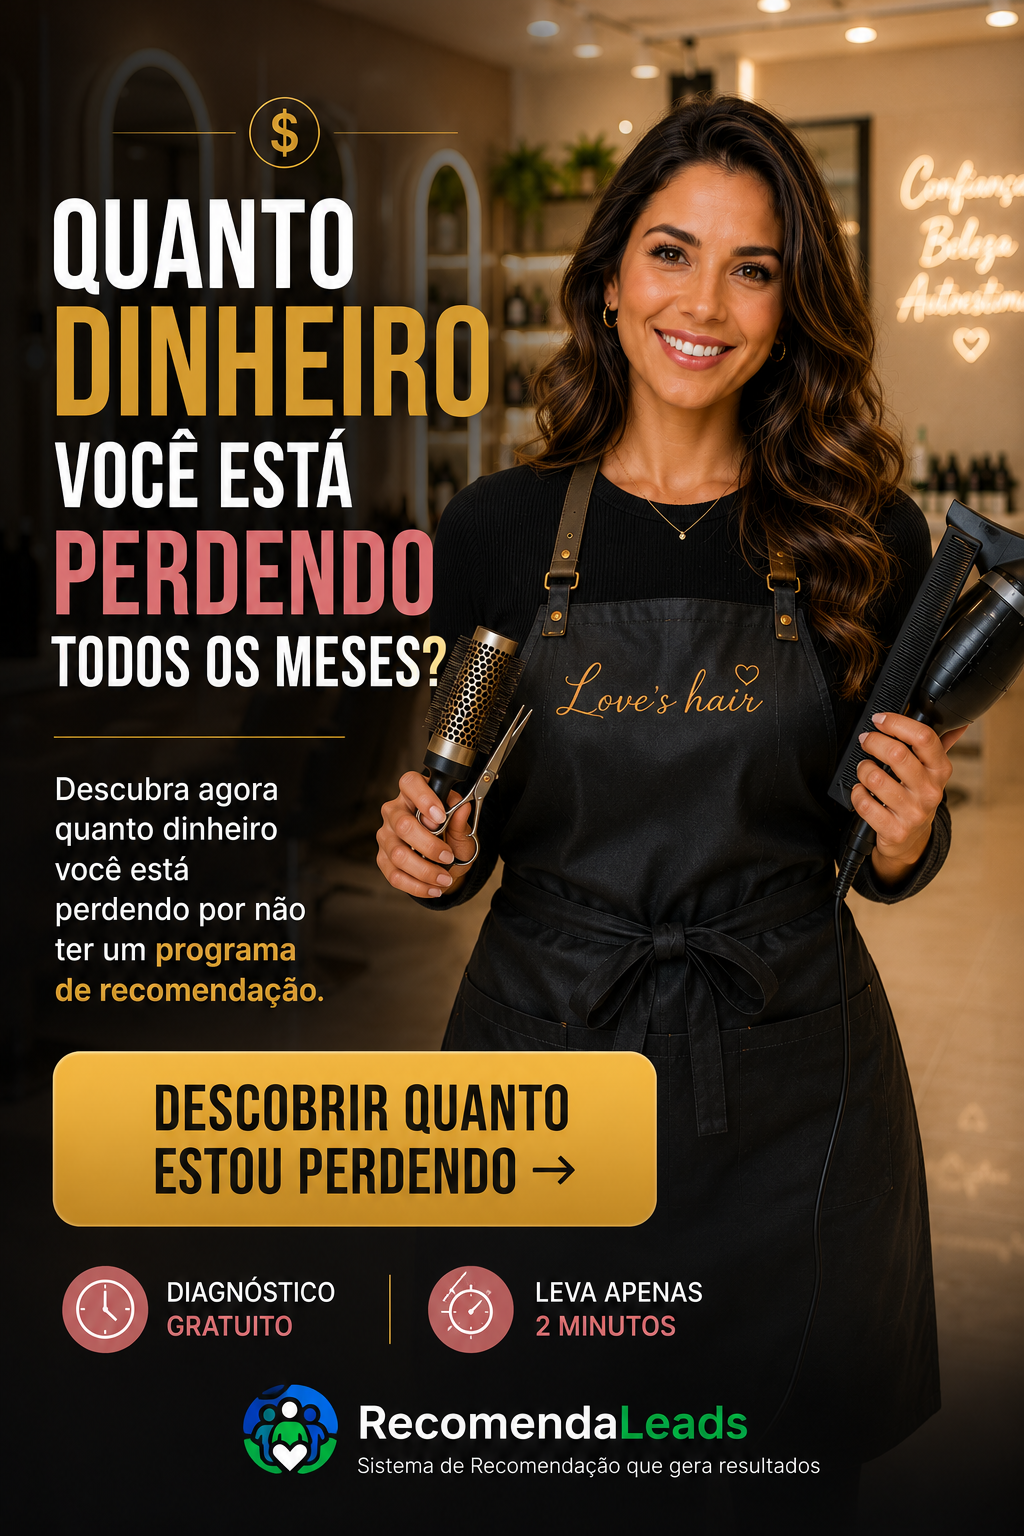
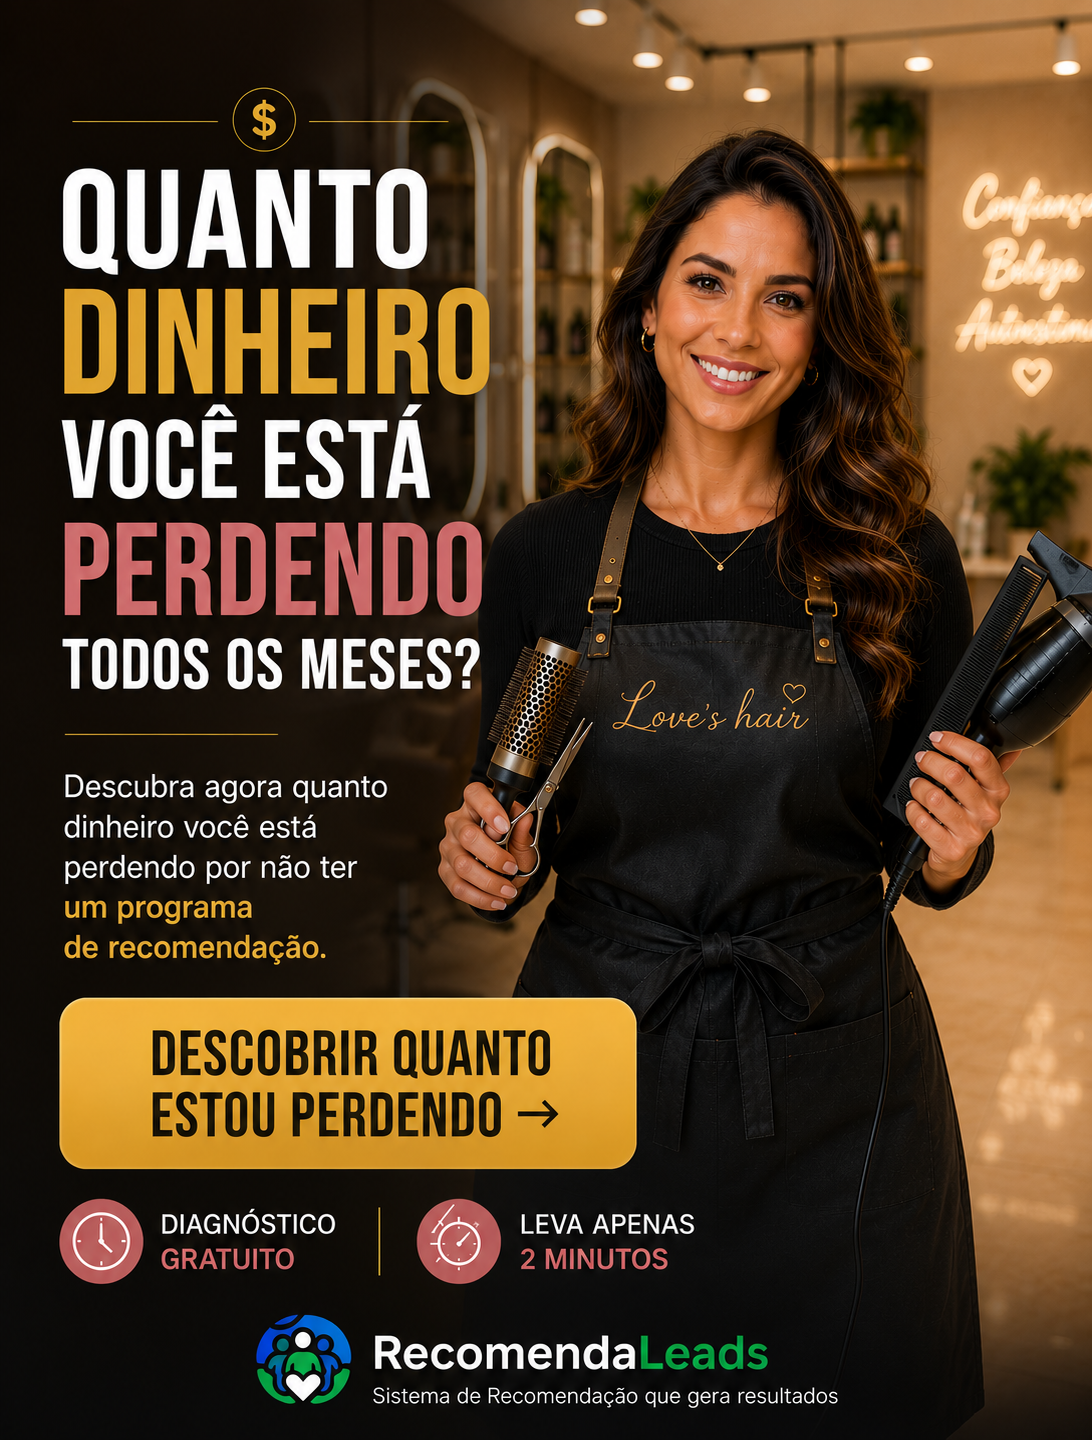
Importar CSV: sobe leads em massa (Google Maps/Apify/planilha), mapeia colunas automaticamente, cai na base do closer (source=importado)

diff --git a/index.html b/index.html
@@ -380,8 +380,23 @@ th:nth-child(1),td:nth-child(1){width:22%}th:nth-child(2),td:nth-child(2){width:
         <div class="sc"><div class="slabel">Prontos</div><div class="sval p" id="sr">0</div></div>
       </div>
       <div style="display:flex;justify-content:space-between;align-items:center;flex-wrap:wrap;gap:8px;margin-bottom:12px">
-        <div class="sub" style="margin:0">Sua base ativa — leads que você prospectou ou cadastrou.</div>
-        <button class="btn btn-primary" onclick="toggleNewLead()"><i class="ti ti-plus"></i> Novo lead</button>
+        <div class="sub" style="margin:0">Sua base ativa — leads que você prospectou, cadastrou ou importou.</div>
+        <div style="display:flex;gap:8px;flex-wrap:wrap">
+          <button class="btn" onclick="toggleImport()"><i class="ti ti-file-upload"></i> Importar CSV</button>
+          <button class="btn btn-primary" onclick="toggleNewLead()"><i class="ti ti-plus"></i> Novo lead</button>
+        </div>
+      </div>
+      <div class="cfgcard" id="import-form" style="display:none;margin-bottom:14px">
+        <strong style="display:block;margin-bottom:6px">Importar leads de um CSV</strong>
+        <div class="sub" style="margin-bottom:10px">Exporte do Google Maps / Apify / planilha e suba aqui. Eu identifico as colunas (nome, telefone, e-mail, site...) automaticamente.</div>
+        <input type="file" id="csv-file" accept=".csv,text/csv" onchange="analyzeCsvFile(this)" style="margin-bottom:8px"/>
+        <div class="sub" style="margin:6px 0">ou cole o conteúdo do CSV:</div>
+        <textarea id="csv-paste" rows="3" placeholder="nome,telefone,email,site&#10;Barbearia X,11999...,[email redacted],site.com" style="width:100%;padding:9px 11px;border-radius:8px;border:1px solid var(--border);background:var(--bg);color:var(--text);font-size:12px;font-family:monospace;resize:vertical"></textarea>
+        <div style="display:flex;gap:8px;margin-top:10px">
+          <button class="btn" onclick="analyzeCsvPaste()"><i class="ti ti-eye"></i> Analisar</button>
+          <button class="btn" onclick="toggleImport()">Cancelar</button>
+        </div>
+        <div id="import-preview" style="margin-top:12px"></div>
       </div>
       <div class="cfgcard" id="newlead-form" style="display:none;margin-bottom:14px">
         <strong style="display:block;margin-bottom:10px">Cadastrar lead ativo</strong>
@@ -954,6 +969,81 @@ async function saveNewLead(){
   if(error){ m.className='cfgmsg err'; m.textContent='Erro: '+error.message; m.style.display='block'; return; }
   toggleNewLead();
   await loadLeads(); nav('leads');
+}
+
+// ─── Importar leads de CSV ─────────────────────────────────────────────────────
+let importRows=[]; // leads prontos pra inserir
+function toggleImport(){
+  const f=document.getElementById('import-form');
+  const show=f.style.display==='none';
+  f.style.display=show?'block':'none';
+  if(show){ document.getElementById('csv-paste').value=''; document.getElementById('import-preview').innerHTML=''; const fi=document.getElementById('csv-file'); if(fi)fi.value=''; importRows=[]; }
+}
+function parseCSV(text){
+  text=text.replace(/^/,'');
+  // detecta separador pela 1ª linha
+  const firstLine=text.slice(0, text.indexOf('\n')>0?text.indexOf('\n'):text.length);
+  const delim = (firstLine.split(';').length > firstLine.split(',').length) ? ';' : ',';
+  const rows=[]; let row=[], field='', q=false;
+  for(let i=0;i<text.length;i++){ const ch=text[i];
+    if(q){ if(ch==='"'){ if(text[i+1]==='"'){field+='"';i++;} else q=false; } else field+=ch; }
+    else { if(ch==='"') q=true; else if(ch===delim){ row.push(field); field=''; } else if(ch==='\n'){ row.push(field); rows.push(row); row=[]; field=''; } else if(ch!=='\r') field+=ch; }
+  }
+  if(field.length||row.length){ row.push(field); rows.push(row); }
+  return rows.filter(r=>r.some(c=>c&&c.trim()));
+}
+function norm(s){ return (s||'').toLowerCase().normalize('NFD').replace(/[̀-ͯ]/g,'').replace(/[^a-z0-9]/g,''); }
+function mapHeaders(headers){
+  const H=headers.map(norm);
+  const find=(...keys)=>{ for(const k of keys){ const i=H.findIndex(h=>h===k); if(i>=0)return i; } for(const k of keys){ const i=H.findIndex(h=>h.includes(k)); if(i>=0)return i; } return -1; };
+  return {
+    name: find('name','nome','title','empresa','business','razaosocial','fantasia'),
+    phone: find('phone','telefone','fone','celular','phonenumber','phoneunformatted','numero'),
+    whatsapp: find('whatsapp','whats','wpp'),
+    email: find('email','emails','mail'),
+    site: find('website','site','url','domain','webpage'),
+    address: find('address','endereco','location','fulladdress','street'),
+    instagram: find('instagram','instagramurl','ig','perfilinstagram')
+  };
+}
+function analyzeCsvFile(input){ const f=input.files&&input.files[0]; if(!f)return; const r=new FileReader(); r.onload=e=>{ document.getElementById('csv-paste').value=e.target.result; analyzeCsvPaste(); }; r.readAsText(f); }
+function analyzeCsvPaste(){
+  const text=document.getElementById('csv-paste').value.trim();
+  const box=document.getElementById('import-preview');
+  if(!text){ box.innerHTML='<div class="cfgmsg err" style="display:block">Cole um CSV ou escolha um arquivo.</div>'; return; }
+  const rows=parseCSV(text);
+  if(rows.length<2){ box.innerHTML='<div class="cfgmsg err" style="display:block">CSV vazio ou só com cabeçalho.</div>'; return; }
+  const headers=rows[0], map=mapHeaders(headers);
+  if(map.name<0){ box.innerHTML='<div class="cfgmsg err" style="display:block">Não achei uma coluna de <strong>nome</strong>. Verifique o cabeçalho do CSV.</div>'; return; }
+  const get=(r,i)=>i>=0?(r[i]||'').trim():'';
+  importRows=rows.slice(1).map(r=>{
+    const phone=get(r,map.phone)||get(r,map.whatsapp);
+    return { name:get(r,map.name), phone:phone||null, whatsapp:(get(r,map.whatsapp)||phone)||null,
+      email:get(r,map.email)||null, site:get(r,map.site)||null, address:get(r,map.address)||null, instagram:get(r,map.instagram)||null };
+  }).filter(l=>l.name);
+  const cols=Object.entries(map).filter(([k,v])=>v>=0).map(([k,v])=>`<span class="badge bpronto">${k} ← ${esc(headers[v])}</span>`).join(' ');
+  box.innerHTML=`<div style="font-size:13px;margin-bottom:8px"><strong>${importRows.length} leads</strong> encontrados. Colunas: ${cols}</div>
+    <div class="twrap" style="max-height:180px;overflow:auto"><table><thead><tr><th>Nome</th><th>Telefone</th><th>E-mail</th></tr></thead><tbody>
+    ${importRows.slice(0,5).map(l=>`<tr><td>${esc(l.name)}</td><td>${esc(l.phone||'—')}</td><td>${esc(l.email||'—')}</td></tr>`).join('')}
+    </tbody></table></div>
+    <button class="btn btn-green" style="margin-top:10px" onclick="doImport()"><i class="ti ti-download"></i> Importar ${importRows.length} leads pra minha base</button>
+    <div class="cfgmsg" id="import-msg"></div>`;
+}
+async function doImport(){
+  if(!importRows.length) return;
+  const m=document.getElementById('import-msg'); m.className='cfgmsg info'; m.textContent='Importando...'; m.style.display='block';
+  const now=new Date().toISOString();
+  const payload=importRows.map(l=>({ company_id:me.company_id, name:l.name, phone:l.phone, whatsapp:l.whatsapp,
+    email:l.email, site:l.site, address:l.address, instagram:l.instagram, source:'importado', status:'novo',
+    assigned_to:me.id, assigned_at:now, created_by:me.id }));
+  let ok=0;
+  for(let i=0;i<payload.length;i+=200){
+    const { error }=await SB.from('leads').insert(payload.slice(i,i+200));
+    if(error){ m.className='cfgmsg err'; m.textContent='Erro após '+ok+' leads: '+error.message; return; }
+    ok+=payload.slice(i,i+200).length;
+  }
+  m.className='cfgmsg ok'; m.textContent=ok+' leads importados! ✅';
+  await loadLeads(); setTimeout(()=>{ toggleImport(); nav('leads'); }, 900);
 }
 
 // ─── ATENDIMENTO (inbound) ─────────────────────────────────────────────────────